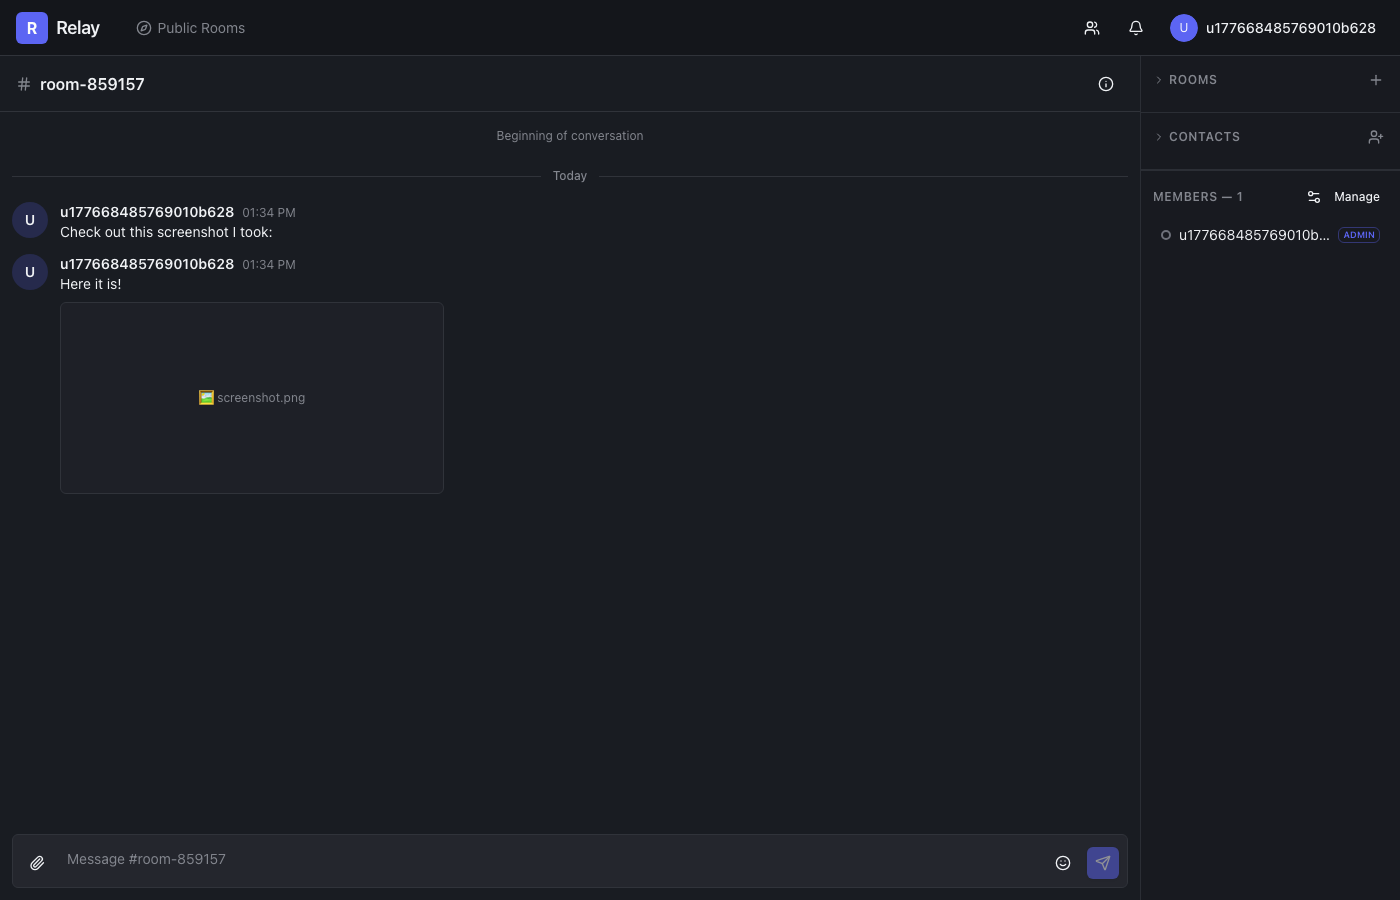
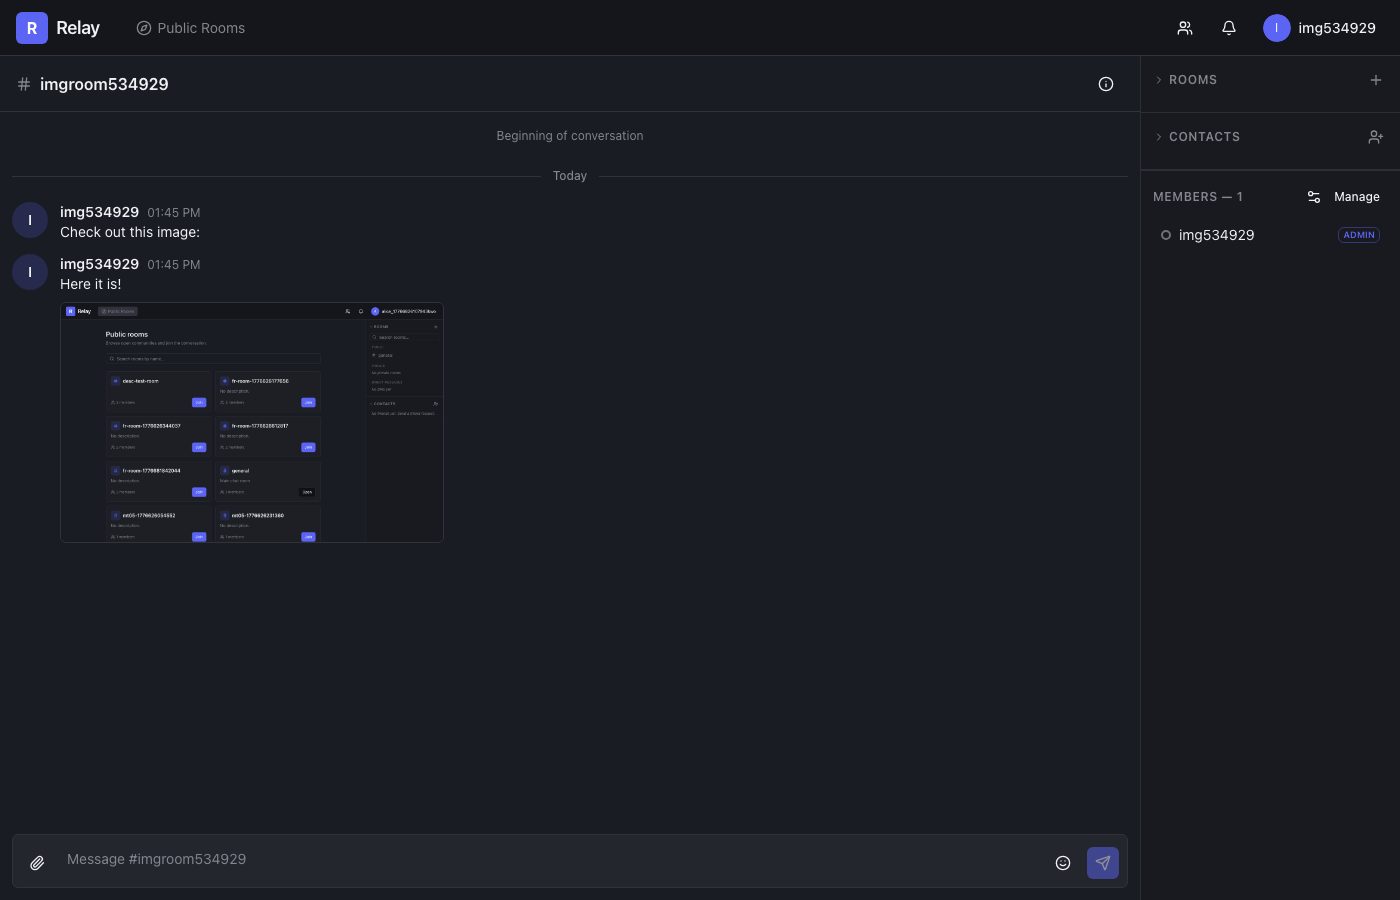
fix: render image attachments inline instead of placeholder
Replace the 🖼 placeholder div with an actual <img> tag that loads
from /api/files/{id}. Images are clickable and open full-size in a
new tab. Updated screenshot to show real inline preview.

diff --git a/frontend/src/components/chat/MessageItem.tsx b/frontend/src/components/chat/MessageItem.tsx
@@ -117,12 +117,19 @@ export function MessageItem({ message, onReply, onEdit, onDelete, isAdmin = fals
                 {message.attachments.map((a) => {
                   if (a.mimeType.startsWith("image/")) {
                     return (
-                      <div
+                      <a
                         key={a.id}
-                        className="flex h-48 w-full max-w-sm items-center justify-center rounded-md border border-border bg-muted/40 text-xs text-muted-foreground"
+                        href={`/api/files/${a.id}`}
+                        target="_blank"
+                        rel="noreferrer"
+                        className="block max-w-sm"
                       >
-                        🖼 {a.originalFilename}
-                      </div>
+                        <img
+                          src={`/api/files/${a.id}`}
+                          alt={a.originalFilename}
+                          className="max-h-72 rounded-md border border-border object-contain"
+                        />
+                      </a>
                     );
                   }
                   return (
